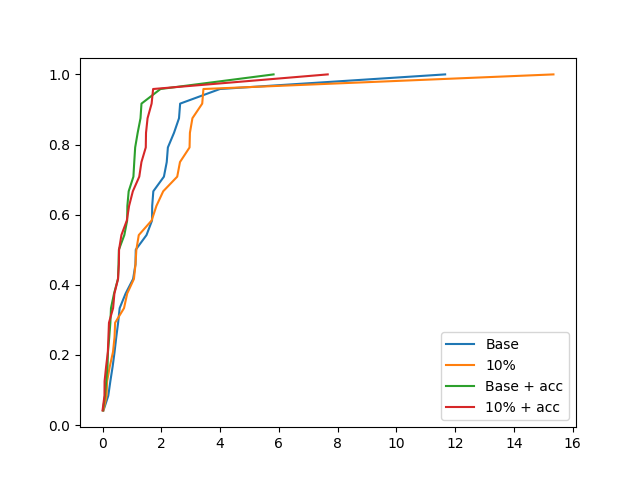
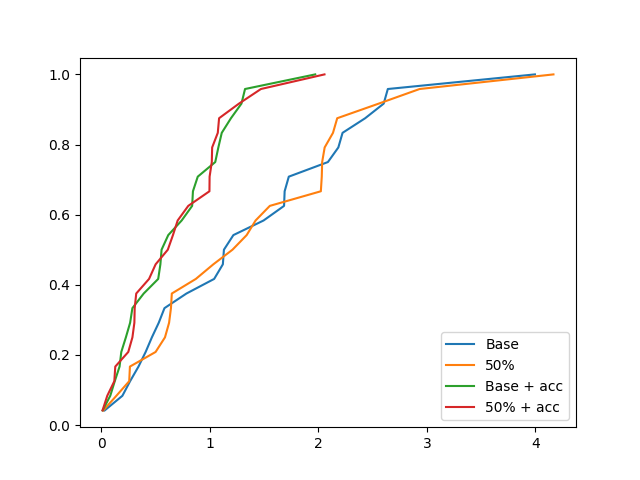
Add bounding algorithms

diff --git a/calculate_distance.py b/calculate_distance.py
@@ -29,13 +29,13 @@ if __name__ == "__main__":
     dir = os.listdir('./data/RSSI')
     dic = {}
     k_org = 1.4858080060144432e-06
-    k_mod = 2.6515100662316045e-06
-    partition = 10
+    k_mod = 1.878343380171123e-06
+    partition = 2
     for f in dir:
         f_path = './data/RSSI/' + f
         data = []
         with open(f_path) as csvfile:
-            reader = csv.reader(csvfile, delimiter='\t')
+            reader = csv.reader(csvfile, delimiter='\n')
             for row in reader:
                 data.append(eval(row[0]))
         dic[f] = data
@@ -46,30 +46,110 @@ if __name__ == "__main__":
     error_org_acc = []
     error_mod_acc = []
     dis_error_mod = {}
-    dis_acc = {'0.804': 0.82, 
-               '0.842': 0.84, 
-               '0.923': 0.91, 
-               '1.20': 1.21, 
-               '1.182': 1.21, 
-               '1.225': 1.23, 
-               '1.57': 1.58, 
-               '1.578': 1.56, 
-               '1.628': 1.61,
-               '2.028': 2.02,
-               '2.062': 2.01,
-               '2.082': 2.07,
-               '2.406': 2.40,
-               '2.408': 2.39,
-               '2.453': 2.45,
-               '2.804': 2.79,
-               '2.858': 2.86,
-               '2.939': 2.90,
-               '3.420': 3.45,
-               '3.424': 3.43,
-               '3.481': 3.43,
-               '3.847': 3.86,
-               '3.884': 3.91,
-               '3.941': 3.90}
+    dis_acc = {
+        '0.804': 0.82, 
+        '0.842': 0.84, 
+        '0.923': 0.91, 
+        '1.20': 1.21, 
+        '1.182': 1.21, 
+        '1.225': 1.23, 
+        '1.57': 1.58, 
+        '1.578': 1.56, 
+        '1.628': 1.61,
+        '2.028': 2.02,
+        '2.062': 2.01,
+        '2.082': 2.07,
+        '2.406': 2.40,
+        '2.408': 2.39,
+        '2.453': 2.45,
+        '2.804': 2.79,
+        '2.858': 2.86,
+        '2.939': 2.90,
+        '3.420': 3.45,
+        '3.424': 3.43,
+        '3.481': 3.43,
+        '3.847': 3.86,
+        '3.884': 3.91,
+        '3.941': 3.90
+    }
+    max_speed = {
+        '0.804': 1.14, 
+        '0.842': 1.07, 
+        '0.923': 1.32, 
+        '1.20': 1.35, 
+        '1.182': 1.08, 
+        '1.225': 1.23, 
+        '1.57': 1.17, 
+        '1.578': 1.42, 
+        '1.628': 1.47,
+        '2.028': 1.47,
+        '2.062': 1.32,
+        '2.082': 1.51,
+        '2.406': 1.32,
+        '2.408': 1.24,
+        '2.453': 1.56,
+        '2.804': 1.43,
+        '2.858': 1.56,
+        '2.939': 1.53,
+        '3.420': 1.39,
+        '3.424': 1.54,
+        '3.481': 1.45,
+        '3.847': 1.29,
+        '3.884': 1.34,
+        '3.941': 1.29
+    }
+    init_pos = {
+        '0.804': 0.5, 
+        '0.842': 0.5, 
+        '0.923': 0.5, 
+        '1.20': 0.85, 
+        '1.182': 0.85, 
+        '1.225': 0.85, 
+        '1.57': 1.2, 
+        '1.578': 1.2, 
+        '1.628': 1.2,
+        '2.028': 1.6,
+        '2.062': 1.6,
+        '2.082': 1.6,
+        '2.406': 2.0,
+        '2.408': 2.0,
+        '2.453': 2.0,
+        '2.804': 2.4,
+        '2.858': 2.4,
+        '2.939': 2.4,
+        '3.420': 3.0,
+        '3.424': 3.0,
+        '3.481': 3.0,
+        '3.847': 3.5,
+        '3.884': 3.5,
+        '3.941': 3.5
+    }
+    time_slots = {
+        '0.804': 30, 
+        '0.842': 29, 
+        '0.923': 31, 
+        '1.20': 28, 
+        '1.182': 32, 
+        '1.225': 30, 
+        '1.57': 33, 
+        '1.578': 31, 
+        '1.628': 31,
+        '2.028': 31,
+        '2.062': 31,
+        '2.082': 30,
+        '2.406': 26,
+        '2.408': 28,
+        '2.453': 31,
+        '2.804': 30,
+        '2.858': 31,
+        '2.939': 35,
+        '3.420': 32,
+        '3.424': 28,
+        '3.481': 31,
+        '3.847': 28,
+        '3.884': 39,
+        '3.941': 32
+    }
     for dist in dic:
         sig = dic[dist]
         sig.sort(reverse=True)
@@ -78,33 +158,39 @@ if __name__ == "__main__":
         estimate_mod = rssi_to_dis(k_mod, sum(sig_mod) / len(sig_mod))
         acc_org = (estimate_org + dis_acc[dist]) / 2
         acc_mod = (estimate_mod + dis_acc[dist]) / 2
-        # print(estimate_org, dist)
-        # print(estimate_mod, dist)
         dis_error_mod[dist] = abs(estimate_mod - eval(dist))
         error_mod.append(abs(estimate_mod - eval(dist)))
         error_mod_acc.append(abs(acc_mod - eval(dist)))
         dis_error_org[dist] = abs(estimate_org - eval(dist))
         error_org.append(abs(estimate_org - eval(dist)))
         error_org_acc.append(abs(acc_org - eval(dist)))
-    # print(dis_error_org)
-    # print(dis_error_mod)
+        max_pos = init_pos[dist] + max_speed[dist] * time_slots[dist] * 0.02
+        print(init_pos[dist], dist, max_pos)
+        max_rssi = rssi_func(k_org, init_pos[dist])
+        min_rssi = rssi_func(k_org, max_pos)
+        bound_org = []
+        for rssi in sig:
+            if rssi >= min_rssi and rssi <= max_rssi:
+                bound_org.append(rssi)
+        max_rssi_mod = rssi_func(k_mod, init_pos[dist])
+        min_rssi_mod = rssi_func(k_mod, max_pos)
+        bound_mod = []
+        for rssi in sig_mod:
+            if rssi >= min_rssi_mod and rssi <= max_rssi_mod:
+                bound_mod.append(rssi)
+        # print(f"Location : {dist}, Bounded len: {len(bound_mod)}, Original len: {len(sig_mod)}, Error: {dis_error_mod[dist]}")
+        # print(f"Location : {dist}, Bounded len: {len(bound_org)}, Original len: {len(sig)}, Error: {dis_error_org[dist]}")
+        
     error_mod.sort()
     error_org.sort()
     error_mod_acc.sort()
     error_org_acc.sort()
-    # print(error_org)
-    # print(error_mod)
-    print(error_mod_acc)
-    print(error_org_acc)
     cdf_lst = [x / (len(error_org)) for x in range(1, len(error_org) + 1)]
-    # print(cdf_lst)
-    
-    
     plt.figure()
     plt.plot(error_org, cdf_lst, label='Base')
-    plt.plot(error_mod, cdf_lst, label='10%')
+    plt.plot(error_mod, cdf_lst, label='50%')
     plt.plot(error_org_acc, cdf_lst, label='Base + acc')
-    plt.plot(error_mod_acc, cdf_lst, label='10% + acc')
+    plt.plot(error_mod_acc, cdf_lst, label='50% + acc')
     plt.legend(loc="best")
     plt.savefig('cdf.png')
         

diff --git a/calculate_k.py b/calculate_k.py
@@ -22,7 +22,7 @@ if __name__ == "__main__":
     k_mod = [] 
     sig_org = []
     sig_mod = []
-    partition = 10
+    partition = 2
     # Distance: 0.5
     dis = 0.5
     d = [-21, -21, -23, -22, -23, -22, -22, -23, -22, -22, -19, -18, -19, -21, -21, -19, -21, -21, -22, -27, -27, -21, -21, -19, -19, -21, -21, -22, -21, -21, -21, -22]
